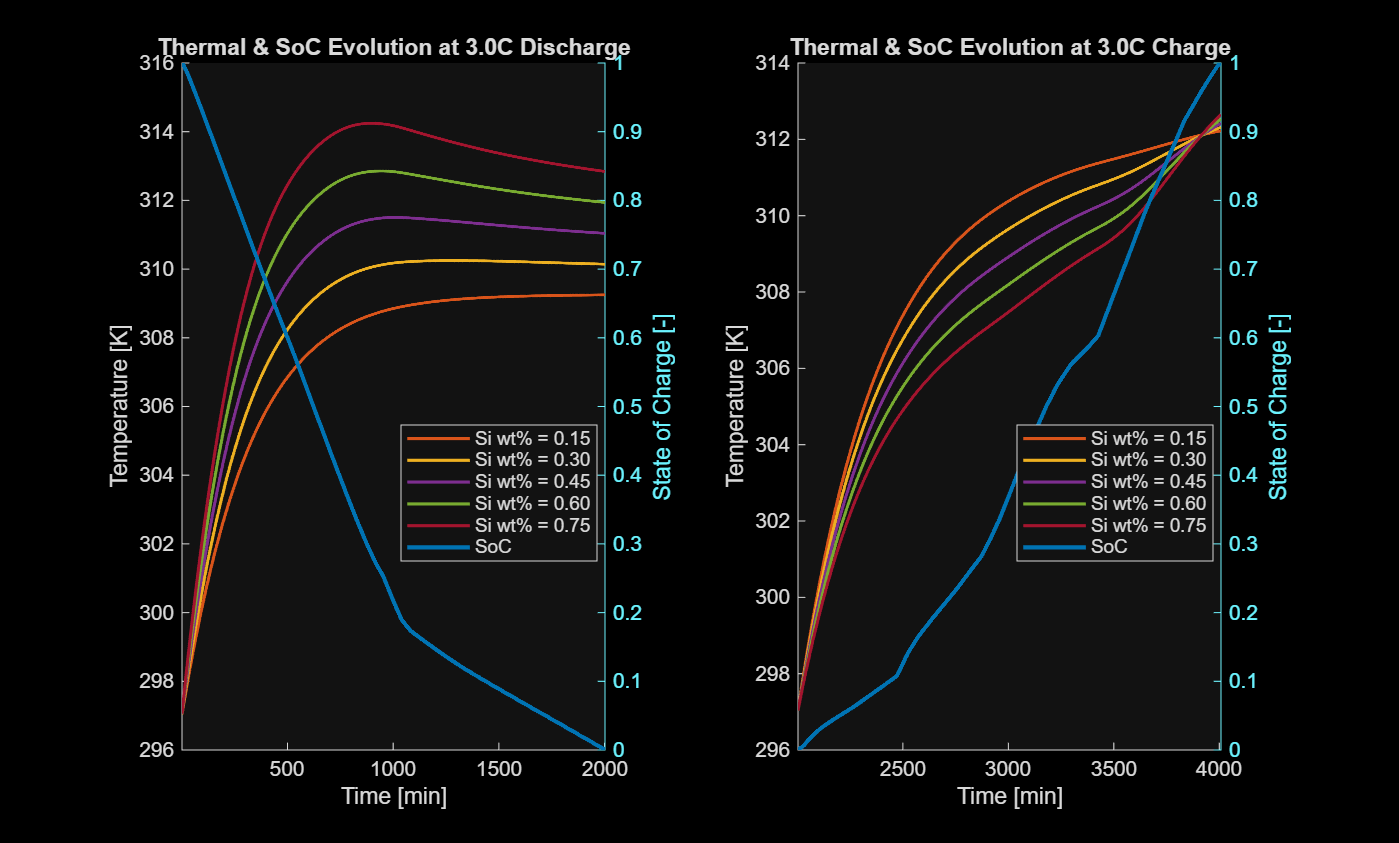
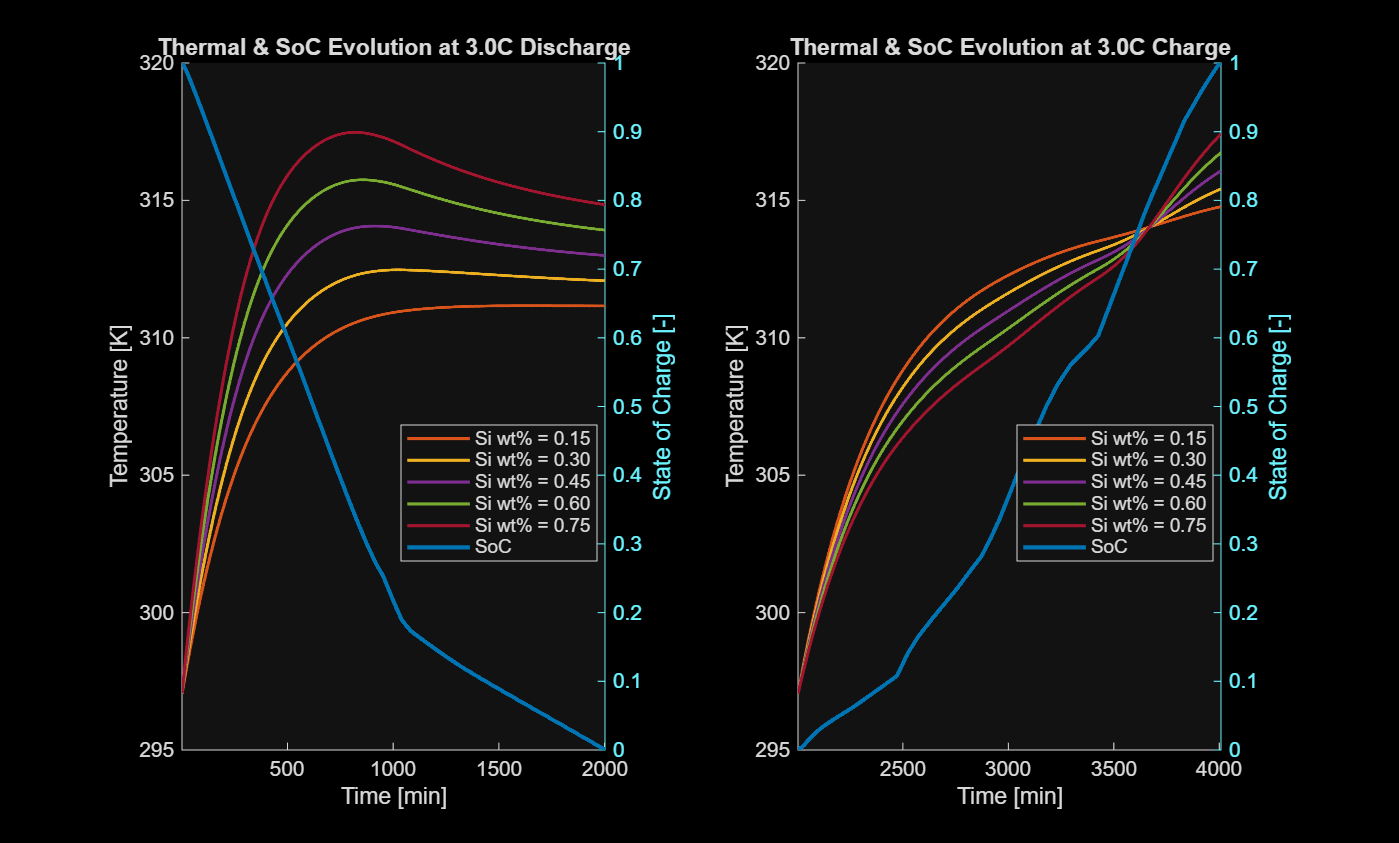
Paramater file updated and changed

diff --git a/MATLAB Files/Main Project/Models/Volume_Expansion.m b/MATLAB Files/Main Project/Models/Volume_Expansion.m
@@ -41,9 +41,10 @@ function dV = graphite_expansion(z)
 %       1     |   3.706     |  10.49%
 %
 %  Incremental volume jumps between stages:
-%    empty -> stage 3:   3.50%   (grouped low-SOC transitions)
-%    stage 3 -> stage 2: 1.75%
-%    stage 2 -> stage 1: 5.24%
+%    empty -> stage 4:   2.62%   (dilute Li filling)
+%    stage 4 -> stage 3: 0.88%   (8.3% of total)
+%    stage 3 -> stage 2: 1.75%   (16.7% of total)
+%    stage 2 -> stage 1: 5.24%   (50.0% of total)
 %
 %  These jumps give the sigmoid weights: w_i = step_i / alpha
 
@@ -53,37 +54,42 @@ function dV = graphite_expansion(z)
     alpha = (dLi - d0) / d0;   % = 0.1049  (max expansion)
 
     % Volume levels at each stage from d-spacing formula
+    dV_stage4 = (dLi - d0) / (4 * d0);   % = 0.0263
     dV_stage3 = (dLi - d0) / (3 * d0);   % = 0.0350
     dV_stage2 = (dLi - d0) / (2 * d0);   % = 0.0525
     dV_stage1 = (dLi - d0) / (1 * d0);   % = 0.1049
 
     % Incremental steps -> sigmoid weights (derived, not fitted)
-    step1 = dV_stage3;                    % empty -> stage 3  = 0.0350
-    step2 = dV_stage2 - dV_stage3;        % stage 3 -> 2      = 0.0175
-    step3 = dV_stage1 - dV_stage2;        % stage 2 -> 1      = 0.0524
+    step1 = dV_stage4;                    % empty -> stage 4  = 0.0263
+    step2 = dV_stage3 - dV_stage4;        % stage 4 -> 3      = 0.0087
+    step3 = dV_stage2 - dV_stage3;        % stage 3 -> 2      = 0.0175
+    step4 = dV_stage1 - dV_stage2;        % stage 2 -> 1      = 0.0524
 
-    w1 = step1 / alpha;   % = 0.334
-    w2 = step2 / alpha;   % = 0.167
-    w3 = step3 / alpha;   % = 0.499
+    w1 = step1 / alpha;   % = 0.250  (25.0%)
+    w2 = step2 / alpha;   % = 0.083  (8.3%)
+    w3 = step3 / alpha;   % = 0.167  (16.7%)
+    w4 = step4 / alpha;   % = 0.500  (50.0%)
 
     % Sigmoid: smooth approximation of discrete phase transitions
     %   sigma(z, z0, s) = 1 / (1 + exp(-(z - z0)/s))
-    %   z0 = SOC at transition centre  (from graphite phase diagram)
+    %   z0 = SOC at transition centre  (from graphite phase diagram, Dahn 1991)
     %   s  = transition width           (thermal broadening)
     S = @(z, z0, s) 1 ./ (1 + exp(-(z - z0) ./ s));
 
-    z1 = 0.12;  s1 = 0.04;   % dilute -> stage 3
-    z2 = 0.50;  s2 = 0.06;   % stage 3 -> 2
-    z3 = 0.90;  s3 = 0.04;   % stage 2 -> 1
+    z1 = 0.06;  s1 = 0.02;   % empty -> stage 4  (dilute filling)
+    z2 = 0.20;  s2 = 0.04;   % stage 4 -> 3
+    z3 = 0.50;  s3 = 0.06;   % stage 3 -> 2
+    z4 = 0.90;  s4 = 0.04;   % stage 2 -> 1
 
-    raw = w1*S(z,z1,s1) + w2*S(z,z2,s2) + w3*S(z,z3,s3);
+    raw = w1*S(z,z1,s1) + w2*S(z,z2,s2) + w3*S(z,z3,s3) + w4*S(z,z4,s4);
 
     % Normalise so that dV(0) = 0  and  dV(1) = alpha  exactly
-    r0 = w1*S(0,z1,s1) + w2*S(0,z2,s2) + w3*S(0,z3,s3);
-    r1 = w1*S(1,z1,s1) + w2*S(1,z2,s2) + w3*S(1,z3,s3);
+    r0 = w1*S(0,z1,s1) + w2*S(0,z2,s2) + w3*S(0,z3,s3) + w4*S(0,z4,s4);
+    r1 = w1*S(1,z1,s1) + w2*S(1,z2,s2) + w3*S(1,z3,s3) + w4*S(1,z4,s4);
 
     dV = alpha * (raw - r0) / (r1 - r0);
 end
+
 
 function dV = silicon_expansion(z)
 %SILICON_EXPANSION  Fractional volume change of silicon vs SOC.

diff --git a/MATLAB Files/Main Project/options_ECM_VolThev.m b/MATLAB Files/Main Project/options_ECM_VolThev.m
@@ -28,10 +28,10 @@ options.ECM.R2 = 8e-3; % Base resistance for second RC element
 options.ECM.C1 = 350; % Base capacitance for first RC element
 options.ECM.C2 = 1000; % Base capacitance for second RC element
 
-options.ECM.kR0 = 0.6; % Sensitivity of R0 to Si strain.
-options.ECM.kR1 = 0.4; % Sensitivity of R1 to Si strain.
+options.ECM.kR0 = 0.7; % Sensitivity of R0 to Si strain.
+options.ECM.kR1 = 0.5; % Sensitivity of R1 to Si strain.
 options.ECM.kR2 = 0.3; % Sensitivity of R2 to Si strain.
-options.ECM.kC1 = 0.2; % Sensitivity of C1 to Si strain.
+options.ECM.kC1 = 0.4; % Sensitivity of C1 to Si strain.
 options.ECM.kC2 = 0.2; % Sensitivity of C2 to Si strain.
 
 % Anode Values
